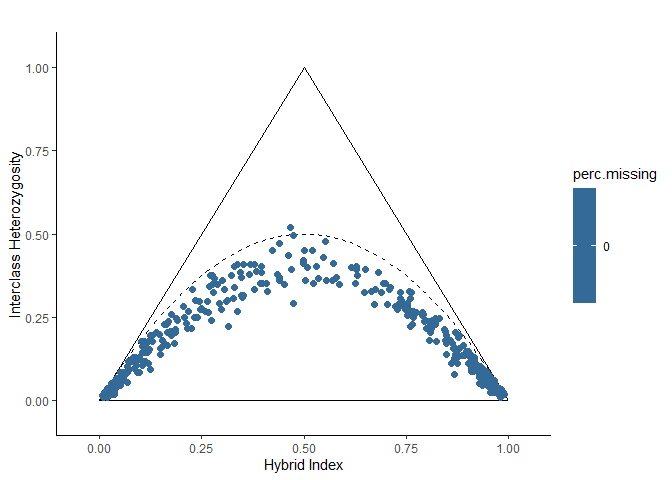
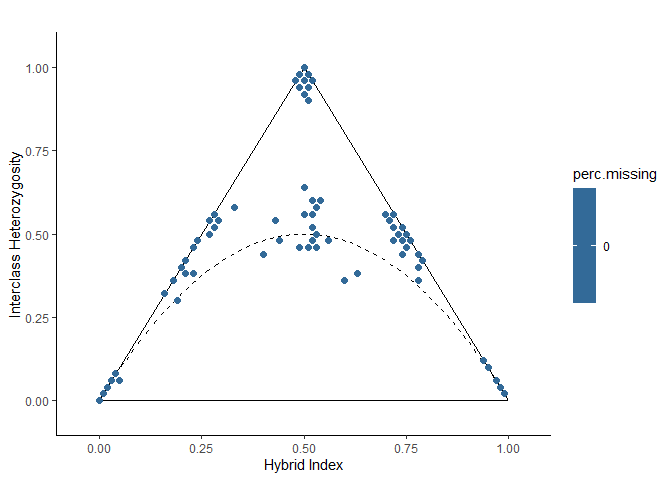
update example

diff --git a/README.md b/README.md
@@ -74,10 +74,10 @@ data
 # Or, use example vcfR object
 example.vcfR
 #> ***** Object of Class vcfR *****
-#> 420 samples
+#> 120 samples
 #> 1 CHROMs
-#> 1,215 variants
-#> Object size: 4.2 Mb
+#> 6,177 variants
+#> Object size: 7.1 Mb
 #> 0 percent missing data
 #> *****        *****         *****
 ```
@@ -95,21 +95,21 @@ strings.
 ``` r
 # Here is an example of what a popmap should look like
 print(head(example.popmap))
-#>   id pop
-#> 1 i0   0
-#> 2 i1   0
-#> 3 i2   0
-#> 4 i3   0
-#> 5 i4   0
-#> 6 i5   0
+#>     id pop
+#> 1  i55  P1
+#> 2 i159  P1
+#> 3 i245  P1
+#> 4 i246  P1
+#> 5 i264  P1
+#> 6 i526  P1
 print(tail(example.popmap))
-#>       id pop
-#> 415 i414  20
-#> 416 i415  20
-#> 417 i416  20
-#> 418 i417  20
-#> 419 i418  20
-#> 420 i419  20
+#>         id pop
+#> 115 bc2.15 BC2
+#> 116 bc2.16 BC2
+#> 117 bc2.17 BC2
+#> 118 bc2.18 BC2
+#> 119 bc2.19 BC2
+#> 120 bc2.20 BC2
 ```
 
 #### Step 3: Choose sites above an allele frequency difference threshold
@@ -124,14 +124,10 @@ diagnostic site (e.g. fixed differences) and a large amount of less
 diagnostic sites. I recommend trying difference values for the allele
 frequency difference threshold to see how this value affects results.
 
-(If your population labels are string characters instead of numbers, you
-will need to put the pop in quotations, e.g. p1 = “parental1” for the
-function below)
-
 ``` r
 # Create a new vcfR object composed only of sites above the given allele frequency difference threshold
-example.vcfR.diff <- alleleFreqDiff(vcfR = example.vcfR, pm = example.popmap, p1 = 0, p2 = 20, difference = 0.6)
-#> [1] "216 sites passed allele frequency difference threshold"
+example.vcfR.diff <- alleleFreqDiff(vcfR = example.vcfR, pm = example.popmap, p1 = "P1", p2 = "P2", difference = 0.9)
+#> [1] "50 sites passed allele frequency difference threshold"
 ```
 
 #### Step 4: Calculate hybrid index and heterozygosity for each sample
@@ -142,17 +138,17 @@ calculated.
 
 ``` r
 # Calculate hybrid index and heterozygosity for each sample. Values are returned in a data.frame
-hi.het <- hybridIndex(vcfR = example.vcfR.diff, pm = example.popmap, p1 = 0, p2 = 20)
-#> [1] "calculating hybrid indices and heterozygosities based on 216 sites"
+hi.het <- hybridIndex(vcfR = example.vcfR.diff, pm = example.popmap, p1 = "P1", p2 = "P2")
+#> [1] "calculating hybrid indices and heterozygosities based on 50 sites"
 ```
 
 #### Step 5: Visualize results as a triangle plot
 
 ``` r
 # Generate colors (or leave blank to use default)
-cols <- colorRampPalette(colors = c("#313695", "khaki2", "#a50026"))
+cols <- c("#af8dc3", "#7fbf7b", "#bababa", "#878787", "#762a83", "#1b7837")
 # View triangle plot
-triangle.plot(hi.het, colors = cols(21))
+triangle.plot(hi.het, colors = cols)
 ```
 
 <img src="man/figures/README-unnamed-chunk-5-1.png" width="100%" />
